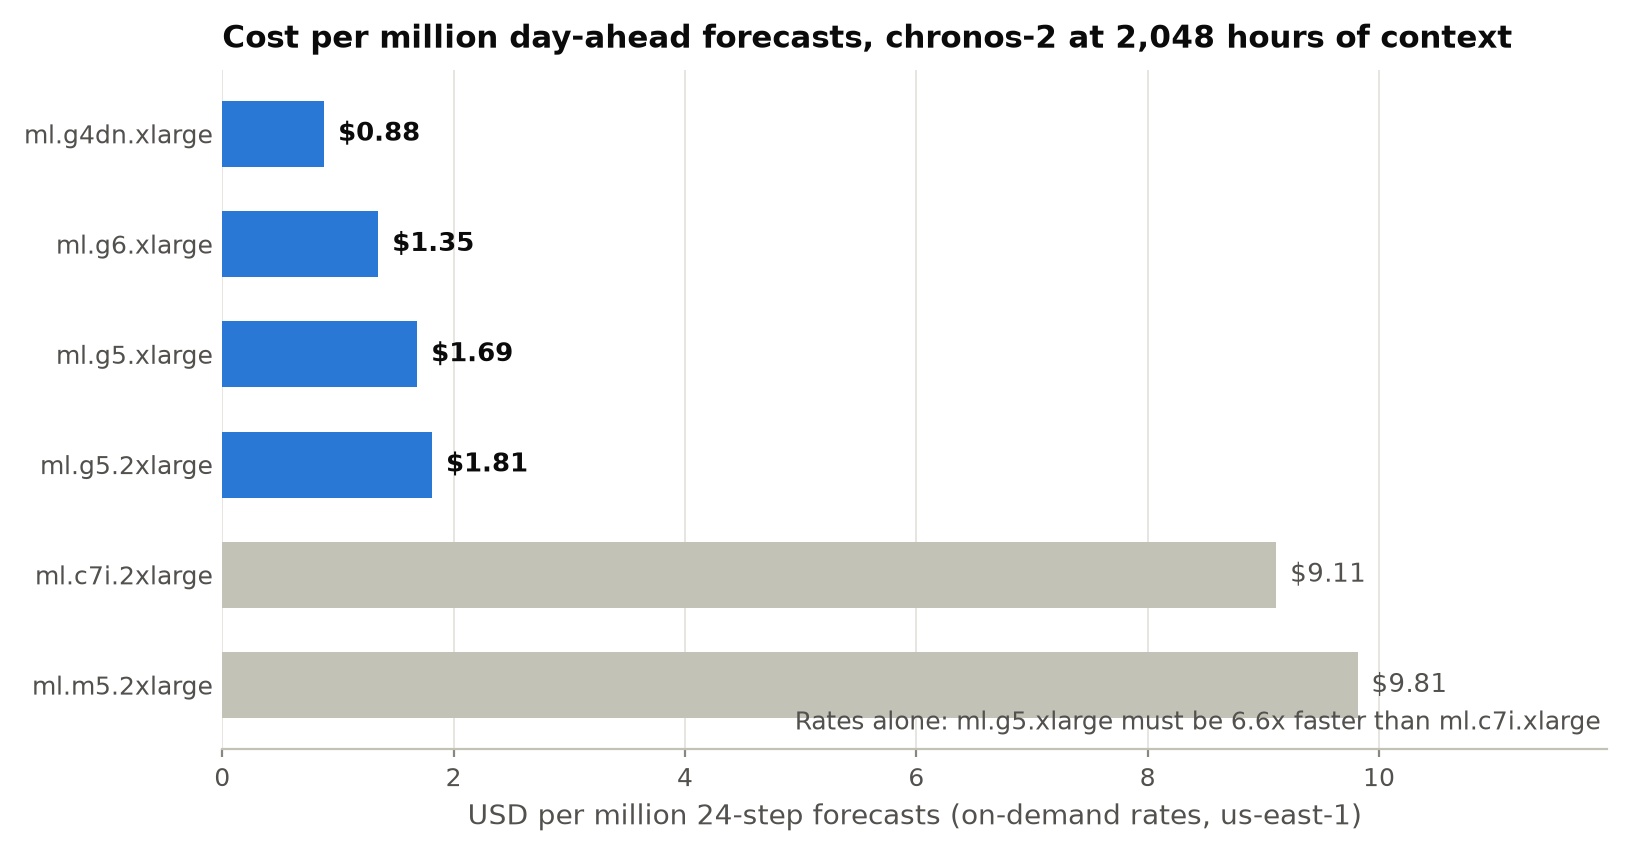
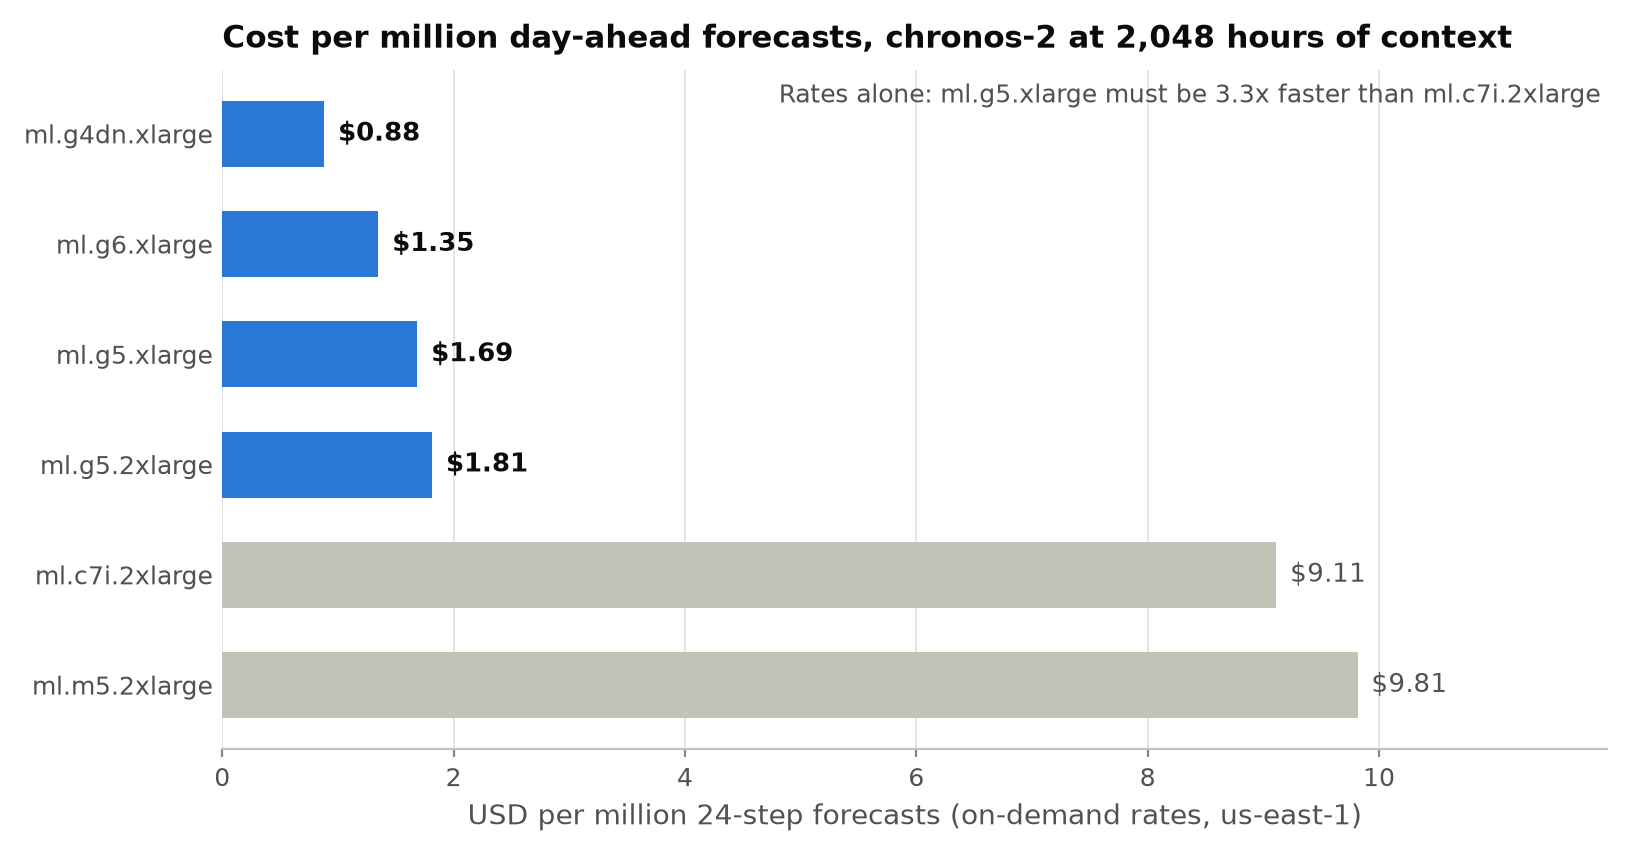
Fix: break-even against the 8-vCPU instance, CPU provenance in the cost table
The rate-only break-even compared ml.g5.xlarge with ml.c7i.xlarge (4 vCPU)
while the CPU throughput it is read against was measured on 8 cores; the
default is now ml.c7i.2xlarge (3.29x instead of 6.58x), matching the
cost-per-million table. The measured_on column for CPU rows was NaN because an
empty CSV cell is truthy; it now names the CPU and its thread count. The
break-even annotation moves to the empty top-right corner of the figure.

Changed region(s): [[0.4598, 0.0912, 0.981, 0.1216], [0.4905, 0.8211, 0.981, 0.8515]]

diff --git a/scripts/cost_table.py b/scripts/cost_table.py
@@ -119,14 +119,21 @@ def cost_per_million(rates: pd.DataFrame, throughput: pd.DataFrame) -> pd.DataFr
                     "series_per_second": measurement["series_per_second"],
                     "forecasts_per_hour": per_hour,
                     "usd_per_million_forecasts": rate["usd_per_hour"] / per_hour * 1e6,
-                    "measured_on": measurement["gpu"]
-                    or f"{measurement['cpu']} ({measurement['torch_threads']} threads)",
+                    "measured_on": _measured_on(measurement),
                 }
             )
     frame = pd.DataFrame(rows)
     return frame.sort_values(
         ["context_length", "model", "usd_per_million_forecasts"], ignore_index=True
     )
+
+
+def _measured_on(measurement: pd.Series) -> str:
+    """Name the hardware behind a throughput row: the GPU, else the CPU and its thread count."""
+    gpu = measurement.get("gpu")
+    if isinstance(gpu, str) and gpu:  # an empty CSV cell arrives as NaN, which is truthy
+        return gpu
+    return f"{measurement['cpu']} ({int(measurement['torch_threads'])} threads)"
 
 
 def break_even(rates: pd.DataFrame, *, cpu_instance: str, gpu_instance: str) -> pd.DataFrame:
@@ -194,7 +201,7 @@ def main(argv: Sequence[str] | None = None) -> int:
         default=["bench_latency_cuda", "bench_latency_cpu"],
         help="one results/<name>.csv per device, concatenated",
     )
-    parser.add_argument("--cpu-instance", default="ml.c7i.xlarge")
+    parser.add_argument("--cpu-instance", default="ml.c7i.2xlarge")
     parser.add_argument("--gpu-instance", default="ml.g5.xlarge")
     args = parser.parse_args(argv)
 

diff --git a/src/c2p/plots/production.py b/src/c2p/plots/production.py
@@ -175,10 +175,10 @@ def plot_cost_per_million(
             ax.annotate(
                 f"Rates alone: {row['gpu_instance']} must be "
                 f"{row['speedup_to_break_even']:.1f}x faster than {row['cpu_instance']}",
-                (0.995, 0.02),
+                (0.995, 0.98),  # top right: the GPU bars are short, so the corner is empty
                 xycoords="axes fraction",
                 ha="right",
-                va="bottom",
+                va="top",
                 fontsize=9,
                 color=INK_SECONDARY,
             )
